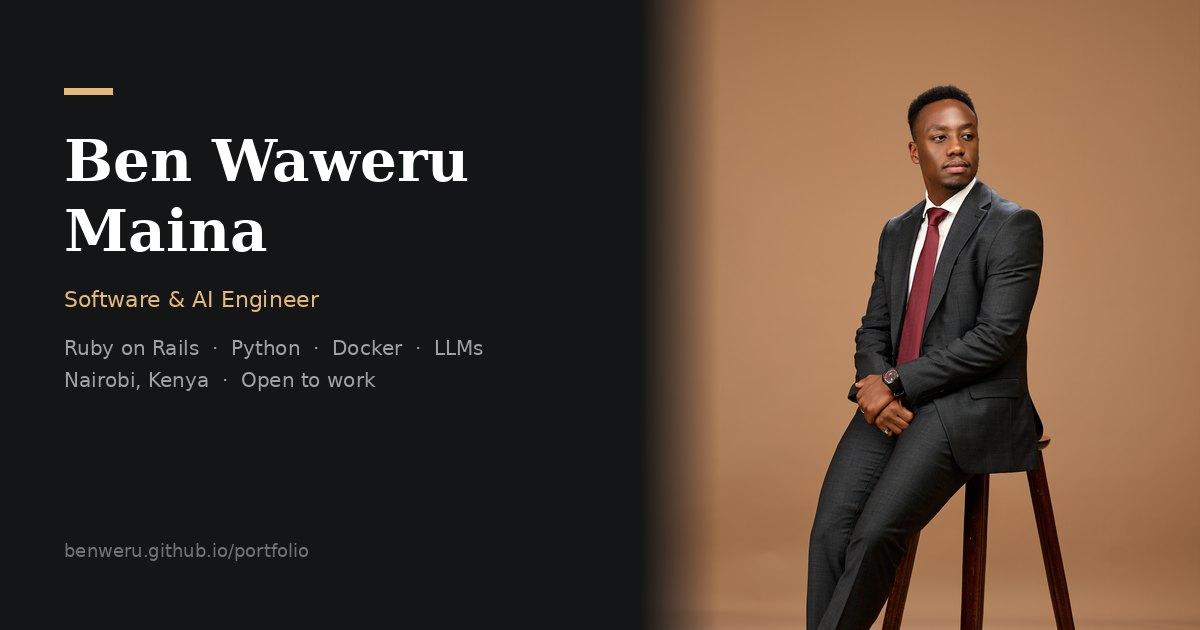
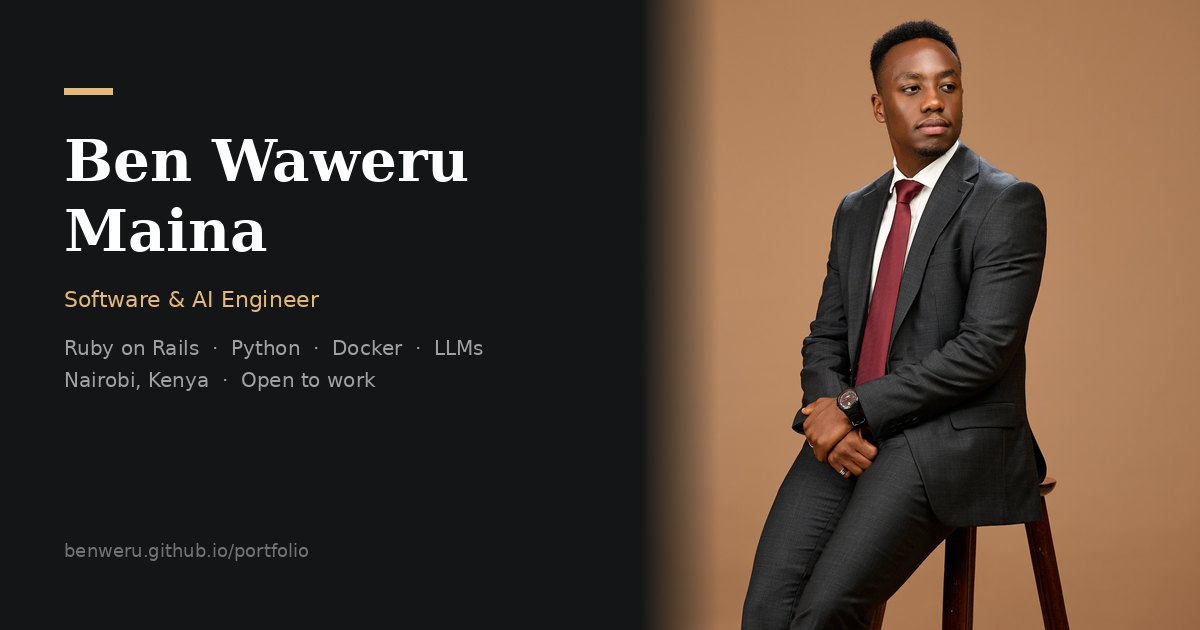
Use Ben's seated stool crop for the About portrait
Replace the tight 5:4 headshot with the supplied nearly-square
frame (stool and pose visible). Drop object-fit cover / 600px
max-height so the slot does not recrop it. Refresh the OG card.

Changed region(s): [[0.6167, 0.0302, 0.8942, 1.0]]

diff --git a/css/styles.css b/css/styles.css
@@ -3500,28 +3500,30 @@ img.u-pull-left {
 }
 
 .about-info__pic {
-  object-fit: cover;
+  object-fit: contain;
   margin: 0;
   vertical-align: bottom;
   width: 100%;
-  height: 100%;
+  height: auto;
   max-width: 100%;
   display: block;
 }
 
+.about-info .column.about-info__pic-block {
+  overflow: visible;
+}
+
 .about-info__pic-block {
-  overflow: hidden;
+  overflow: visible;
   padding: 0;
   display: flex;
   align-items: stretch;
-  max-height: 600px;
 }
 
 .about-info__pic-block img {
   width: 100%;
-  height: 100%;
-  max-height: 600px;
-  object-fit: cover;
+  height: auto;
+  object-fit: contain;
 }
 
 .about-info__text {

diff --git a/index.html b/index.html
@@ -183,7 +183,7 @@
                 srcset="assets/images/ben-maina-600.webp 600w, assets/images/ben-maina-1000.webp 1000w"
                 sizes="(max-width: 1000px) 100vw, 50vw"
                 width="1000"
-                height="800"
+                height="1009"
                 loading="lazy"
                 decoding="async"
                 alt="Portrait of Ben Waweru Maina"
